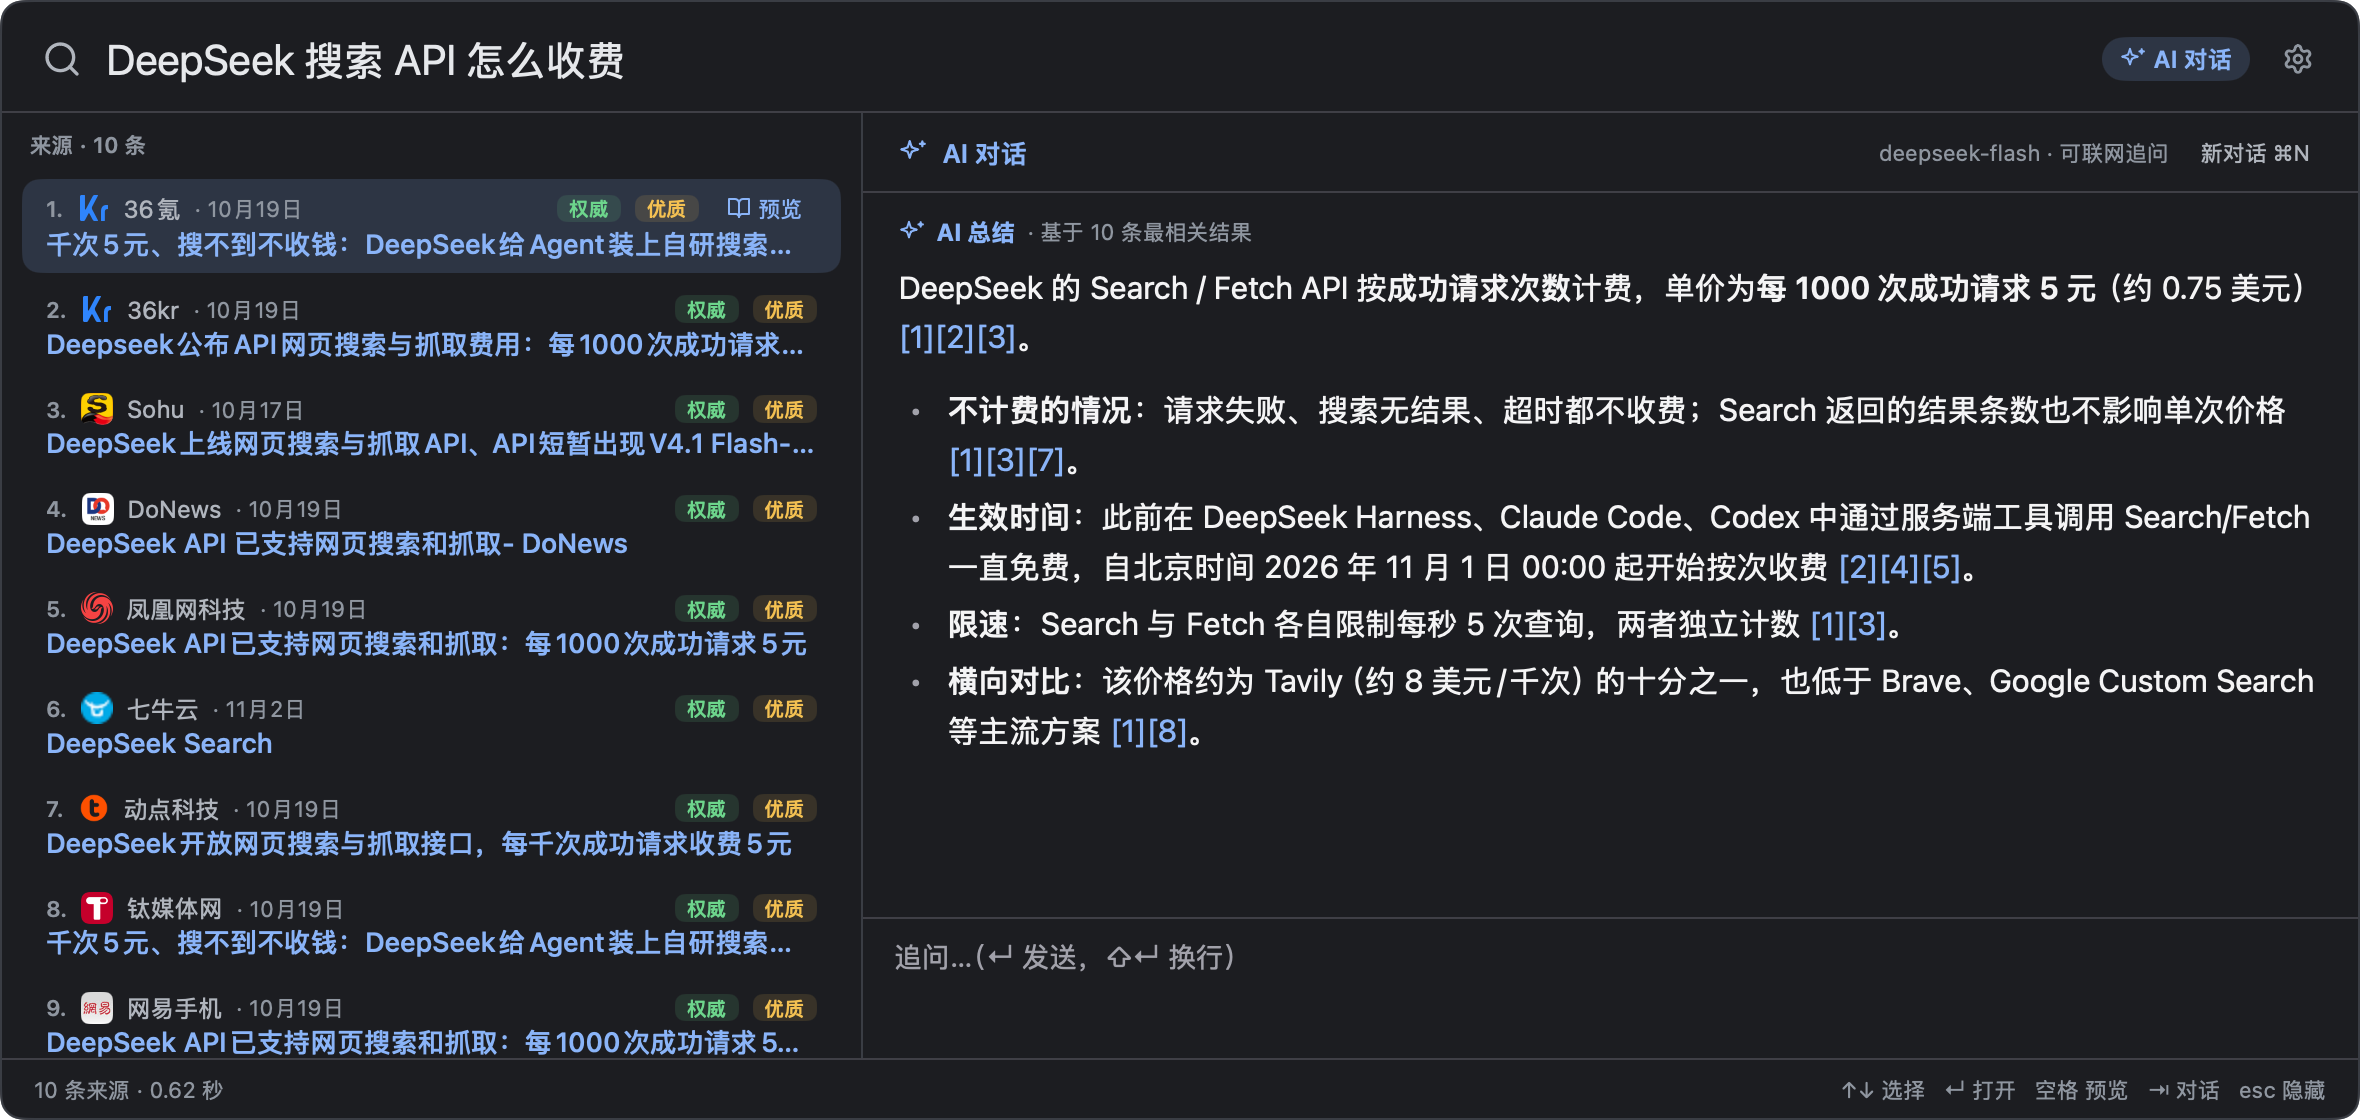
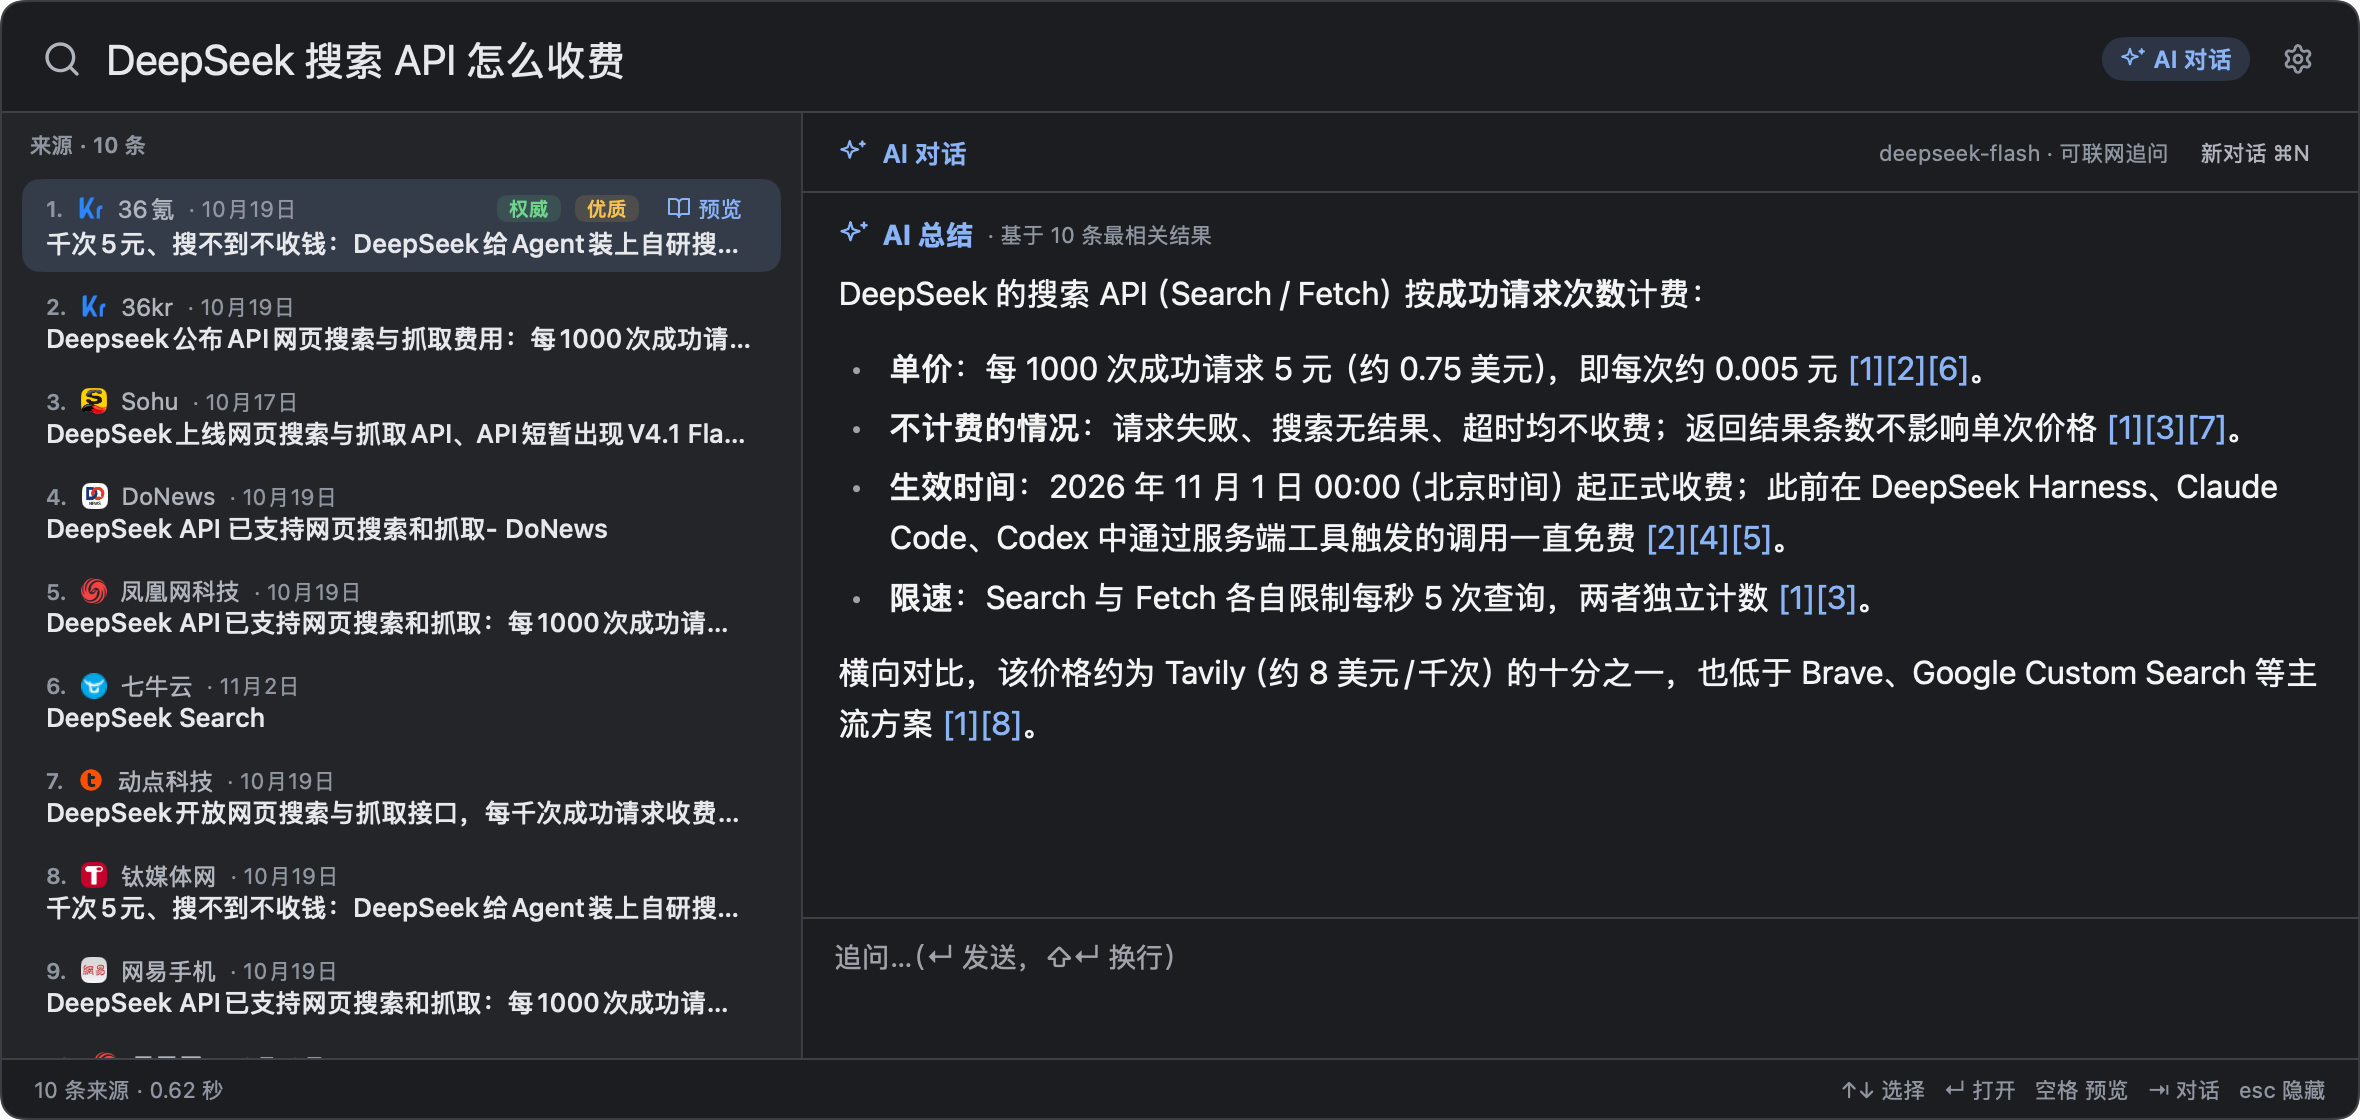
Make the summary the headline: the sources become a narrower sidebar

Changed region(s): [[0.0, 0.1562, 0.9898, 0.9375], [0.3712, 0.125, 0.4331, 0.1562]]

diff --git a/view.go b/view.go
@@ -20,7 +20,7 @@ import (
 const (
 	panelWidth, panelHeight = 720, 560
 	expandedWidth           = 1180
-	leftWidth               = 430 // the sources beside the summary
+	leftWidth               = 400 // the sources, a sidebar beside the summary
 )
 
 var (
@@ -35,7 +35,7 @@ var (
 
 // ink is the app's palette for the window's theme.
 type ink struct {
-	bg, text, muted, faint, accent, link, line, hover, chosen, gold, green, card, danger ui.Color
+	bg, side, text, muted, faint, accent, link, line, hover, chosen, gold, green, card, danger ui.Color
 }
 
 // colors are the palette's opaque colors, by name; every text color is
@@ -57,10 +57,12 @@ func palette(c *ui.Context) ink {
 		k.hover = ui.RGB(255, 255, 255).Alpha(0.05)
 		k.chosen = k.link.Alpha(0.16)
 		k.card = ui.RGB(255, 255, 255).Alpha(0.045)
+		k.side = ui.RGB(255, 255, 255).Alpha(0.035)
 	} else {
 		k.hover = ui.RGB(0, 0, 0).Alpha(0.04)
 		k.chosen = k.link.Alpha(0.09)
 		k.card = ui.Hex("#f4f5f7")
+		k.side = ui.RGB(0, 0, 0).Alpha(0.022)
 	}
 	return k
 }
@@ -157,7 +159,9 @@ func (a *app) searchPage(c *ui.Context, k ink) {
 				a.panesW = w
 			}
 			panes.Children(func() {
-				ui.Column(c.Key("left")).Width(a.leftWidth()).MinHeight(0).Children(func() {
+				// The sources are a sidebar: the tint sets them apart from
+				// the summary, which is the panel's main area.
+				ui.Column(c.Key("left")).Width(a.leftWidth()).MinHeight(0).Background(k.side).Children(func() {
 					a.setChips(c.Key("chips"), k)
 					a.resultsPane(c, k)
 				})
@@ -172,8 +176,13 @@ func (a *app) searchPage(c *ui.Context, k ink) {
 	})
 }
 
-// The left pane is at least minLeft wide, the right at least minRight.
-const minLeft, minRight = 300, 340
+// The sources sidebar is at least minLeft and at most maxLeft wide, the
+// summary at least minRight. The cap is what keeps the summary the
+// headline: a share dragged (or remembered) long ago, back when the
+// results were all there was, must not eat the answer's column.
+const (
+	minLeft, maxLeft, minRight = 280, 460, 340
+)
 
 // splitWidth is the left pane's width, of panes w wide, at split (the
 // left's share; 0 for the default).
@@ -184,7 +193,10 @@ func splitWidth(split, w float32) float32 {
 	if split <= 0 {
 		split = float32(leftWidth) / expandedWidth
 	}
-	return max(min(split*w, w-minRight), min(minLeft, w/2))
+	// The summary keeps its column: the sidebar is capped at maxLeft, and on
+	// a panel too narrow for both minimums the two share it out.
+	lo, hi := min(minLeft, w/2), max(min(minLeft, w/2), min(maxLeft, w-minRight))
+	return min(max(min(split*w, w-minRight), lo), hi)
 }
 
 func (a *app) leftWidth() float32 {
@@ -301,7 +313,8 @@ func (a *app) row(c *ui.Context, k ink, i int) {
 		pad, gap, rad = 6, 1, 9
 	}
 	row := ui.Column(c).Padding(pad, 12, pad+1, 12).Radius(rad).Background(bg).Gap(gap).Cursor(ui.CursorPointer)
-	if row.Hovered() && i != a.chosen {
+	hover := row.Hovered()
+	if hover && i != a.chosen {
 		row.Background(k.hover)
 	}
 	row.OnClick(func() {
@@ -319,9 +332,17 @@ func (a *app) row(c *ui.Context, k ink, i int) {
 			}
 			site := siteName(r)
 			if b := a.icon(r.SiteIcon); b != nil {
-				ui.Image(c, b).Size(16, 16).Radius(4)
+				size := float32(16)
+				if dense {
+					size = 13 // a source line: the icon supports it, it does not lead it
+				}
+				ui.Image(c, b).Size(size, size).Radius(4)
 			} else {
-				ui.Avatar(c, site, nil).Size(16, 16).FontSize(9)
+				size := float32(16)
+				if dense {
+					size = 13
+				}
+				ui.Avatar(c, site, nil).Size(size, size).FontSize(9)
 			}
 			ui.Text(c, site).FontSize(12).TextColor(k.muted).SingleLine().Shrink(1)
 			if !dense {
@@ -331,11 +352,15 @@ func (a *app) row(c *ui.Context, k ink, i int) {
 				ui.Text(c, "· "+d).FontSize(11).TextColor(k.faint).SingleLine()
 			}
 			ui.Spacer(c)
-			if r.Authoritative() {
-				badge(c, "权威", k.green)
-			}
-			if r.Good() {
-				badge(c, "优质", k.gold)
+			// Beside the summary only the row being read says what it is
+			// worth: ten colored badges would outshout the answer.
+			if !dense || i == a.chosen || hover {
+				if r.Authoritative() {
+					badge(c, "权威", k.green)
+				}
+				if r.Good() {
+					badge(c, "优质", k.gold)
+				}
 			}
 			if i == a.chosen {
 				ui.Row(c.Key("read")).Gap(4).Padding(2, 7).Radius(6).AlignItems(ui.Center).Cursor(ui.CursorPointer).
@@ -345,11 +370,13 @@ func (a *app) row(c *ui.Context, k ink, i int) {
 				})
 			}
 		})
-		size := float32(16)
+		// A result is a link, so its title is blue. A source is evidence
+		// for the answer above it, so its title is plain ink, smaller.
+		size, col, weight := float32(16), k.link, 500
 		if dense {
-			size = 13.5
+			size, col, weight = 13, k.text, 450
 		}
-		ui.Text(c, oneLine(r.Title)).FontSize(size).FontWeight(500).TextColor(k.link).MaxLines(1)
+		ui.Text(c, oneLine(r.Title)).FontSize(size).FontWeight(weight).TextColor(col).MaxLines(1)
 		if r.Snippet != "" && !dense {
 			ui.Text(c, oneLine(r.Snippet)).FontSize(13).LineHeight(1.45).TextColor(k.muted).MaxLines(2)
 		}

diff --git a/v021_test.go b/v021_test.go
@@ -302,14 +302,14 @@ func TestSummarySwitch(t *testing.T) {
 }
 
 func TestSplit(t *testing.T) {
-	if w := splitWidth(0, 1180); math.Abs(float64(w-430)) > 0.5 {
+	if w := splitWidth(0, 1180); math.Abs(float64(w-400)) > 0.5 {
 		t.Errorf("default: %v", w)
 	}
 	if w := splitWidth(0.1, 1180); w != minLeft {
 		t.Errorf("min left: %v", w)
 	}
-	if w := splitWidth(0.95, 1180); w != 1180-minRight {
-		t.Errorf("min right: %v", w)
+	if w := splitWidth(0.95, 1180); w != maxLeft {
+		t.Errorf("max left: %v", w) // the summary keeps its column
 	}
 	if w := splitWidth(0.5, 500); w > 250 || w < 160 {
 		t.Errorf("narrow: %v", w)
@@ -334,11 +334,28 @@ func TestSplit(t *testing.T) {
 	}
 	tt.Release(x+120, y)
 	tt.Frame()
-	if l := a.leftWidth(); l < 530 || l > 570 {
-		t.Errorf("dragged 120: left %v (split %v, panes %v)", l, a.cfg.Split, a.panesW)
+	// Dragged wide, the sources stop at maxLeft: the answer stays the
+	// panel's headline however the panes were once shared out.
+	if l := a.leftWidth(); l > maxLeft {
+		t.Errorf("dragged 120 right: left %v, max %v (split %v)", l, maxLeft, a.cfg.Split)
+	}
+	if l := a.leftWidth(); l < maxLeft-120 {
+		t.Errorf("dragged 120 right: left %v", l)
 	}
 	if saved == 0 {
 		t.Error("split not saved")
+	}
+	// Dragged narrow, it follows the pointer.
+	r, _ = tt.Find("分隔条")
+	x, y = r.X+r.W/2, r.Y+r.H/2
+	tt.Press(x, y)
+	for i := 1; i <= 10; i++ {
+		tt.Move(x-float32(i)*12, y)
+	}
+	tt.Release(x-120, y)
+	tt.Frame()
+	if l := a.leftWidth(); l < maxLeft-130 || l > maxLeft-110 {
+		t.Errorf("dragged 120 left: left %v (split %v)", l, a.cfg.Split)
 	}
 	r, _ = tt.Find("分隔条")
 	tt.ClickAt(r.X+r.W/2, y)

diff --git a/chatview.go b/chatview.go
@@ -84,9 +84,9 @@ func (a *app) turnView(c *ui.Context, k ink, i int) {
 				ui.Text(c, t.question).FontSize(14).Padding(7, 12).Radius(12).Background(k.chosen).MaxWidth(520)
 			})
 		} else {
-			ui.Row(c.Key("q")).Gap(6).AlignItems(ui.Center).Children(func() {
-				ui.Icon(c, iconSparkles).FontSize(13).TextColor(k.link)
-				ui.Text(c, "AI 总结").FontSize(12).FontWeight(650).TextColor(k.link)
+			ui.Row(c.Key("q")).Gap(7).AlignItems(ui.Center).Children(func() {
+				ui.Icon(c, iconSparkles).FontSize(15).TextColor(k.link)
+				ui.Text(c, "AI 总结").FontSize(14).FontWeight(700).TextColor(k.link)
 				if n := len(t.sources); n > 0 {
 					ui.Text(c, fmt.Sprintf("· 基于 %d 条最相关结果", n)).FontSize(11).TextColor(k.faint)
 				}
@@ -126,7 +126,7 @@ func (a *app) turnView(c *ui.Context, k ink, i int) {
 			src := citeLinks(t.answer, len(t.sources))
 			size := float32(14)
 			if summary { // what the search is for: read first, and largest
-				size = 15.5
+				size = 16
 			}
 			t.md.Theme = &markdown.Theme{FontSize: size, LineHeight: 1.6, Link: k.link}
 			if t.busy {

diff --git a/README.md b/README.md
@@ -97,8 +97,8 @@ DS 搜索不提供任何服务端，所有请求都用你自己的 DeepSeek API 
 
 - 搜索语法原样传给 DeepSeek：`site:github.com`、`-site:x.com`、`"精确短语"`、`-广告`、`lang:zh,en`、`after:2026-01-01`、`before:2026`。
 - 无限滚动：第一次搜索只取 10 条（快）；滚到离底部约 150px，或用 ↓ 选到倒数第 2 条时，用同一个搜索词再请求一次 50 条（DeepSeek 搜索没有 offset 参数，最多 50 条），按 URL 去重后追加到下面，滚动位置和选中项不变。加载时底部显示「加载中…」，加载完显示「已显示全部 N 条」；失败显示「加载失败，↵ 重试」。每个搜索词最多多请求这一次。
-- 结果显示：站点图标、站点名、日期（北京时间）、标题、「优质 / 权威」标记（`rerank_score ≥ 1.5` 标「优质」，`authority ≥ 3` 标「权威」）；选中那条出现「预览」（空格读全文）。AI 栏展开时来源是一行一条，行首编号与总结里的 [n] 一一对应，不显示域名和摘要，把版面让给总结；关掉 AI 栏时是完整行（另有域名与两行摘要）。
-- 两种布局：默认两栏（约 1180 px，居中，小屏自动收窄），右边是 ✨ AI 总结，左边是带编号的来源（430 px）。按 ⇧⇥ 收起 AI 栏，面板回到单栏（约 720 px），只剩结果；再按 ⇧⇥、按 ⇥ 或设置 › 通用 的「搜索后自动 AI 总结」可展开。展开状态会记住。
+- 结果显示：站点图标、站点名、日期（北京时间）、标题、「优质 / 权威」标记（`rerank_score ≥ 1.5` 标「优质」，`authority ≥ 3` 标「权威」）；选中那条出现「预览」（空格读全文）。AI 栏展开时来源是一行一条：行首编号与总结里的 [n] 一一对应，标题用正文字色（不是链接蓝）不加粗，不显示域名和摘要，「优质 / 权威」只在光标停在该行时出现；关掉 AI 栏时是完整行（蓝色标题 + 域名 + 两行摘要 + 常显标记）。
+- 两种布局：默认两栏（约 1180 px，居中，小屏自动收窄），右边是 ✨ AI 总结（正文 16px，是面板的视觉主体），左边是带编号的来源，做成浅色侧栏（默认 400 px，最宽 460 px，保证总结不被挤掉）。按 ⇧⇥ 收起 AI 栏，面板回到单栏（约 720 px），只剩结果（蓝色标题 + 摘要的完整行）；再按 ⇧⇥、按 ⇥ 或设置 › 通用 的「搜索后自动 AI 总结」可展开。展开状态与拖动比例会记住。
 - AI 总结：第一条回答是对前 10 条结果中 rerank_score 最高者的总结，带 [n] 角标；来源行前的编号与 [n] 一一对应。之后可以在右下角追问（多轮，deepseek-flash 非思考模式，流式）。
 - 费用：关闭「搜索后自动 AI 总结」后，搜索不会调用 Chat API，只有按 ⇥ 展开时才总结，不会白花钱。
 - 联网追问：模型带一个 `web_search(query, count?)` 工具（DeepSeek Function Calling，流式），自己判断已有来源够不够；不够就再搜，每轮最多 2 次，对话里会显示「又搜了：xxx · N 条」。这一轮的 [n] 对应这一轮搜到的来源（从 [1] 编号，第二次搜接着编号）；没搜的轮次沿用上一份来源的编号。
